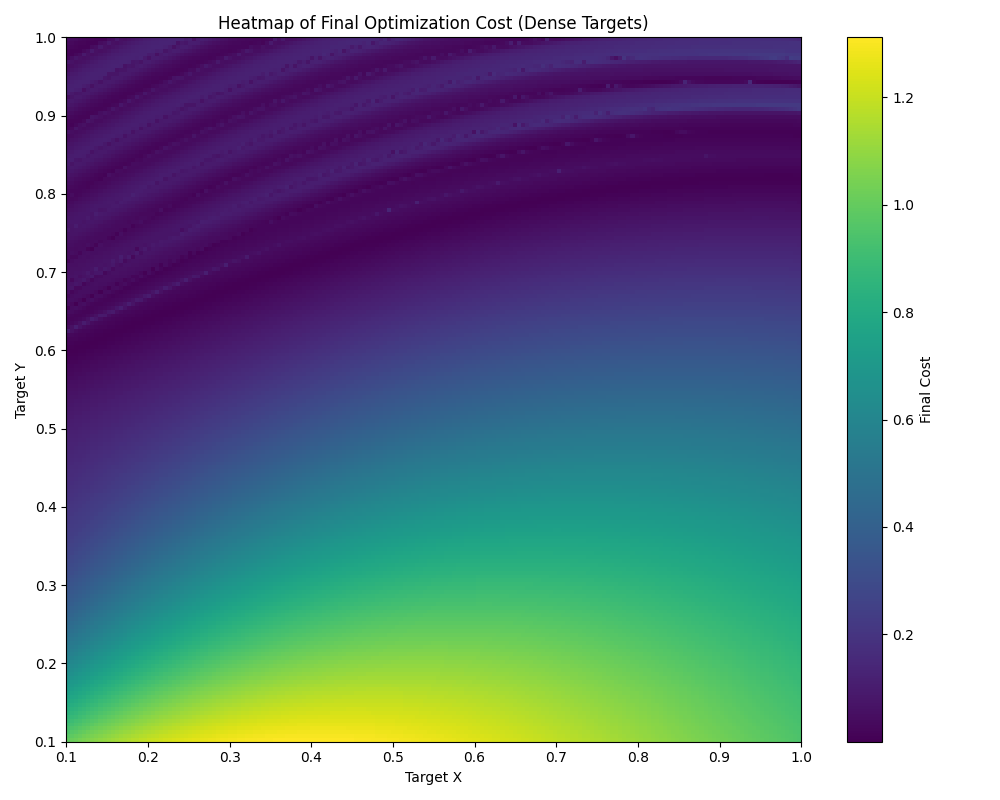
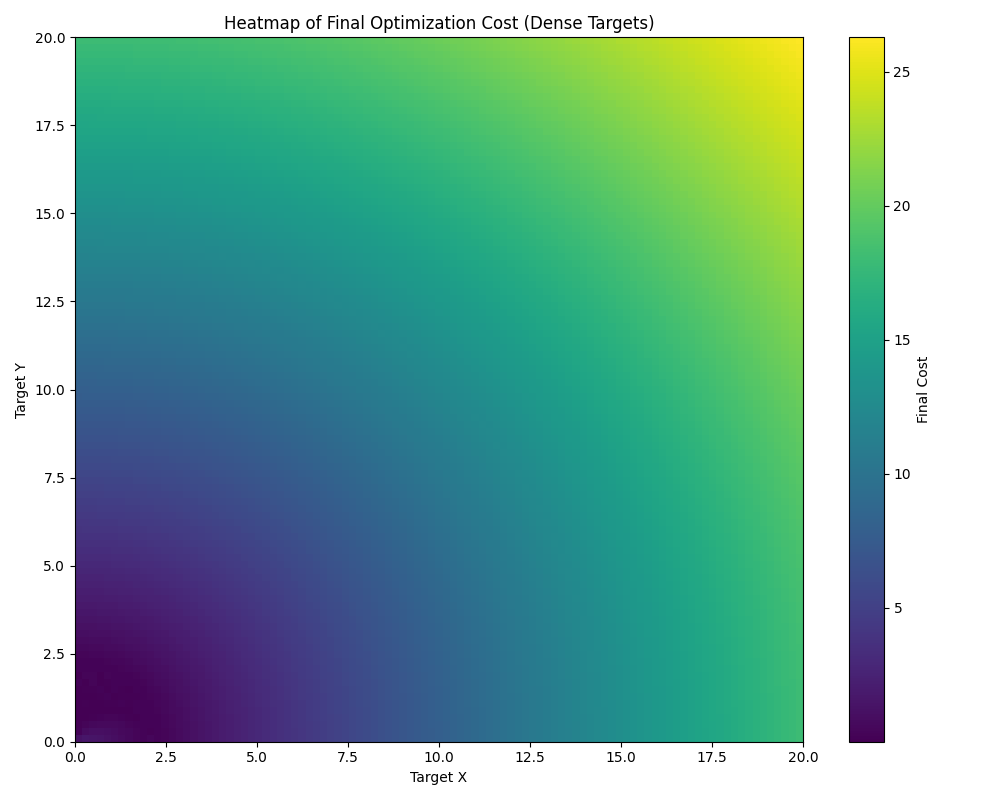
Run for targets for different link lengths

diff --git a/src/optimizer.py b/src/optimizer.py
@@ -37,7 +37,7 @@ def compute_cost(theta1, theta2, target_x, target_y, link1_length=1.0, link2_len
     return cost
 
 # Define gradient computation
-def compute_gradients(theta1, theta2, target_x, target_y, epsilon=1e-5):
+def compute_gradients(theta1, theta2, target_x, target_y, epsilon=1e-5, link1_length=1.0, link2_length=1.0):
     """
     Compute numerical gradients of the cost function with respect to theta1 and theta2 using finite differences.
 
@@ -49,18 +49,18 @@ def compute_gradients(theta1, theta2, target_x, target_y, epsilon=1e-5):
     Returns:
     - grad_theta1, grad_theta2: Estimated gradients
     """
-    cost = compute_cost(theta1, theta2, target_x, target_y)
+    cost = compute_cost(theta1, theta2, target_x, target_y, link1_length, link2_length)
 
-    cost_theta1 = compute_cost(theta1 + epsilon, theta2, target_x, target_y)
+    cost_theta1 = compute_cost(theta1 + epsilon, theta2, target_x, target_y, link1_length, link2_length)
     grad_theta1 = (cost_theta1 - cost) / epsilon
 
-    cost_theta2 = compute_cost(theta1, theta2 + epsilon, target_x, target_y)
+    cost_theta2 = compute_cost(theta1, theta2 + epsilon, target_x, target_y, link1_length, link2_length)
     grad_theta2 = (cost_theta2 - cost) / epsilon
 
     return grad_theta1, grad_theta2
 
 # Define gradient descent optimizer
-def optimize_arm(initial_theta1, initial_theta2, target_x, target_y, learning_rate=0.1, iterations=100, verbose=True):
+def optimize_arm(initial_theta1, initial_theta2, target_x, target_y, learning_rate=0.1, iterations=100, verbose=True, link1_length=1.0, link2_length=1.0):
     """
     Perform gradient descent to optimize joint angles.
 
@@ -78,7 +78,7 @@ def optimize_arm(initial_theta1, initial_theta2, target_x, target_y, learning_ra
     history = []
 
     for i in range(iterations):
-        cost = compute_cost(theta1, theta2, target_x, target_y)
+        cost = compute_cost(theta1, theta2, target_x, target_y, link1_length, link2_length)
         grad1, grad2 = compute_gradients(theta1, theta2, target_x, target_y)
 
         theta1 -= learning_rate * grad1
